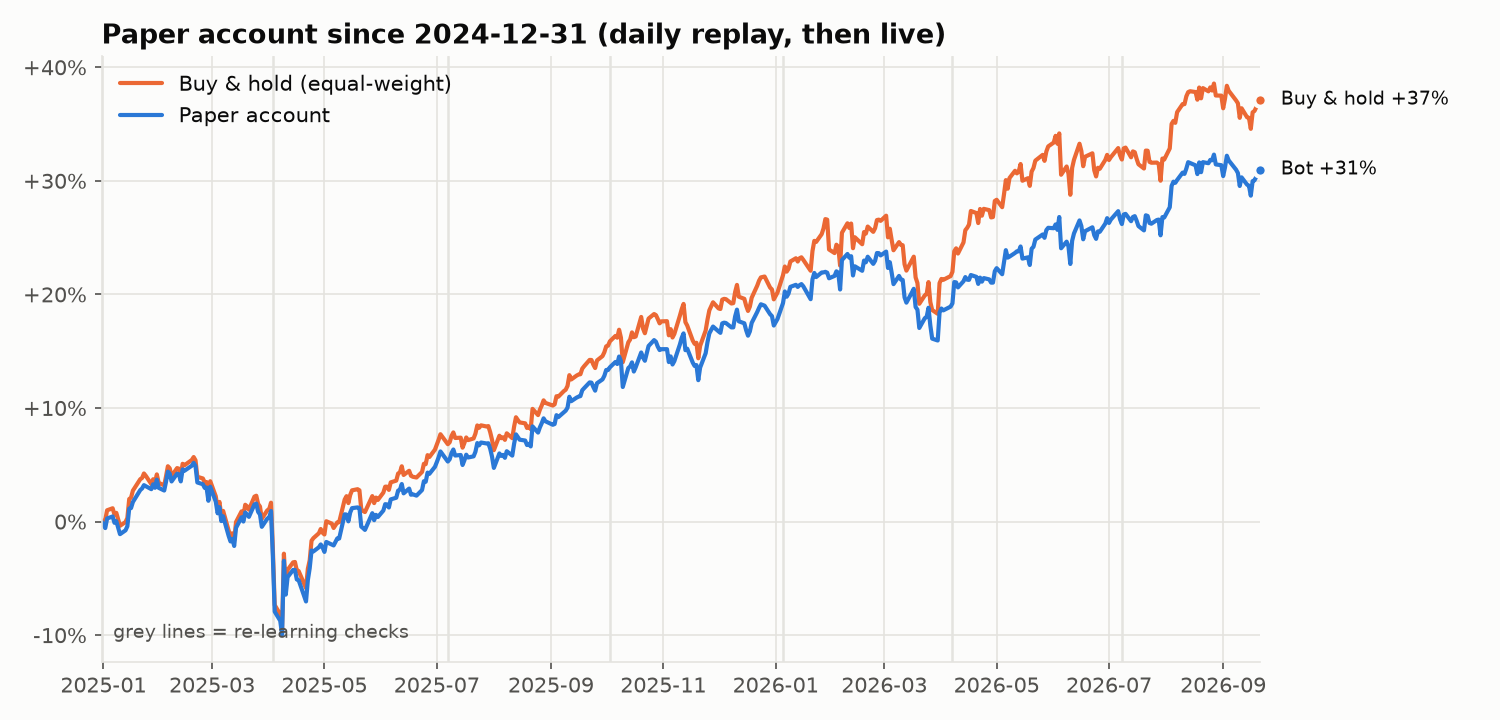
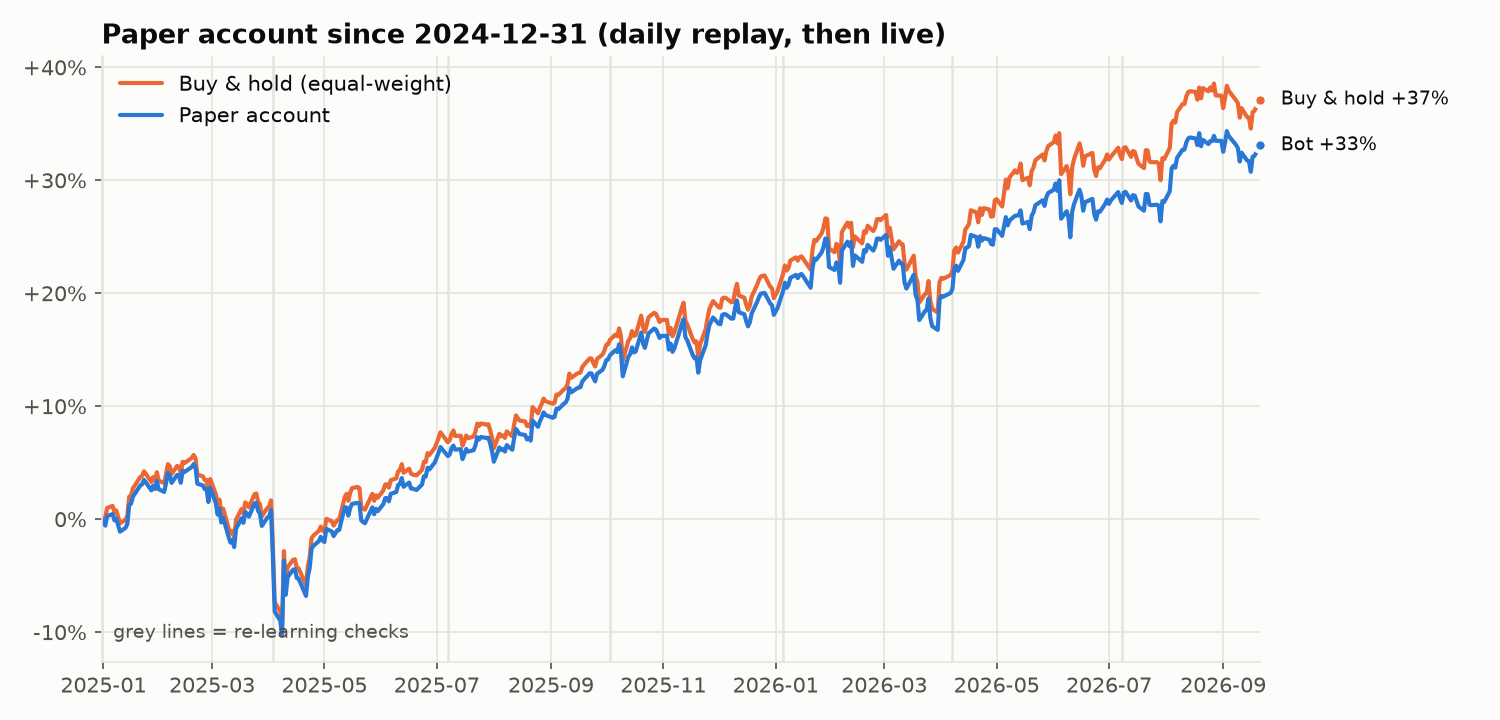
Switch the live paper bot to the beat-buy-&-hold objective
The only change that passed the pre-registered experiment (arm B) now drives
the live account's re-learning.

- Each paper account records its learning objective and always re-learns with
  it; accounts created before this change keep the original Sharpe objective
- `paper init --objective excess|sharpe` (default: excess)
- Status report shows the objective
- New account replayed from 2025-01-02; the original account is kept for
  comparison (data/paper_v1_sharpe.db, not in git)
- README paper results updated, with the gap to buy & hold traced to its
  actual cause

diff --git a/src/evotrader/cli.py b/src/evotrader/cli.py
@@ -192,14 +192,20 @@ def cmd_ml(args: argparse.Namespace) -> None:
 
 def _paper(args: argparse.Namespace, refresh: bool):
     """Open the account database and load the universe it trades."""
-    from evotrader.paper import PaperStore, PaperTrader
+    from evotrader.evolution.fitness import FitnessConfig
+    from evotrader.paper import LearnerConfig, PaperStore, PaperTrader
     from evotrader.walkforward import load_datasets
 
     store = PaperStore(args.db)
     tickers = store.get("tickers") or getattr(args, "tickers", data.DEFAULT_UNIVERSE)
     use_ml = store.get("use_ml", getattr(args, "ml", False))
+    # An account always re-learns with the objective it was created with. Accounts
+    # created before objectives existed used "sharpe".
+    default = getattr(args, "objective", "sharpe") if not store.initialised else "sharpe"
+    objective = store.get("objective", default)
+    learner = LearnerConfig(fitness=FitnessConfig(objective=objective))
     datasets = load_datasets(tickers, use_ml=use_ml, refresh=refresh, log=lambda _: None)
-    return store, PaperTrader(store, datasets)
+    return store, PaperTrader(store, datasets, learner)
 
 
 def cmd_paper_init(args: argparse.Namespace) -> None:
@@ -338,6 +344,9 @@ def main(argv: list[str] | None = None) -> None:
                         help="first trading day; a past date replays history honestly")
     p_init.add_argument("--tickers", nargs="+", default=data.DEFAULT_UNIVERSE)
     p_init.add_argument("--ml", action="store_true", help="let rules use the ML signal (slower)")
+    p_init.add_argument("--objective", choices=["excess", "sharpe"], default="excess",
+                        help="what re-learning optimises: excess = beat buy & hold "
+                             "(passed the pre-registered experiment); sharpe = original")
     p_init.set_defaults(func=cmd_paper_init)
 
     p_run = paper_sub.add_parser("run", parents=[db], help="Trade every day since the last run")

diff --git a/tests/test_paper.py b/tests/test_paper.py
@@ -110,6 +110,23 @@ def test_orders_carry_reasons(tmp_path):
     assert reasons.str.contains("entry").all() and reasons.str.contains("strategy #").all()
 
 
+def test_account_records_and_uses_its_objective(tmp_path):
+    from dataclasses import replace
+
+    from evotrader.evolution import FitnessConfig
+
+    learner = replace(LEARNER, fitness=FitnessConfig(objective="excess"))
+    trader = PaperTrader(PaperStore(tmp_path / "x.db"), make_datasets(), learner,
+                         log=lambda _: None)
+    trader.init(100_000, START)
+    trader.run(until=pd.Timestamp("2019-01-15"))
+    assert trader.store.get("objective") == "excess"
+    assert trader.store.get("relearn_count") > 0
+    # Re-learning decisions are judged with the account's own objective.
+    log = trader.store.frame("SELECT incumbent_score FROM learning_log")
+    assert log["incumbent_score"].notna().all()
+
+
 def test_cannot_init_twice(tmp_path):
     trader = make_trader(tmp_path, make_datasets())
     trader.init(100_000, START)

diff --git a/src/evotrader/paper/report.py b/src/evotrader/paper/report.py
@@ -57,8 +57,10 @@ def status_text(store: PaperStore, bars: dict[str, pd.DataFrame]) -> str:
 
     sid, genome = store.active_strategy()
     origin = store.frame("SELECT origin, created FROM strategies WHERE id = ?", (sid,)).iloc[0]
+    objective = {"excess": "beat buy & hold (information ratio)",
+                 "sharpe": "own Sharpe ratio"}[store.get("objective", "sharpe")]
     lines += [f"Active strategy #{sid} ({origin['origin']}, since {origin['created']}):",
-              f"  {genome}", ""]
+              f"  {genome}", f"  learning objective: {objective}", ""]
 
     positions = store.positions()
     if positions:

diff --git a/src/evotrader/paper/trader.py b/src/evotrader/paper/trader.py
@@ -70,6 +70,7 @@ class PaperTrader:
         s.set("last_processed", _day(anchor))
         s.set("last_relearn", _day(anchor))
         s.set("relearn_count", 0)
+        s.set("objective", self.learner.fitness.objective)
         s.set_hall_of_fame(hall)
         s.activate_strategy(champion, _day(anchor), "initial")
         s.record_equity(_day(anchor), capital, 0.0)

diff --git a/README.md b/README.md
@@ -112,16 +112,23 @@ Live runs also discard today's partial bar while the market is open.
 
 ### Replay results: Jan 2025 to Sep 2026
 
+The live account re-learns with **idea 1's objective** (beat buy & hold), the only change that survived the [pre-registered experiment](docs/EXPERIMENTS.md). The original account is kept for comparison in `data/paper_v1_sharpe.db`. Both were replayed over the same days, and each first champion was trained only on data before 2025.
+
 ![Paper account](docs/img/paper_equity.png)
 
-| | paper account | equal-weight buy & hold |
-|---|---|---|
-| return | +31.0% | +37.1% |
-| Sharpe | 1.28 | |
-| max drawdown | -14.4% | |
-| closed trades | 64 (80% winners, avg +3.6%) | |
+| | live account (beat-B&H objective) | original account (Sharpe objective) | equal-weight buy & hold |
+|---|---|---|---|
+| return | +33.1% | +31.0% | +37.1% |
+| Sharpe | 1.31 | 1.28 | |
+| max drawdown | -14.4% | -14.4% | |
+| closed trades | 8 | 64 | |
+| strategy changes | 1 (July 2025) | 0 | |
 
-In all six re-learning rounds the champion was **kept**: no challenger beat it on unseen data by the required margin. Mistake analysis found no entry filter that would have removed more losing than winning return. The losers of this "stay invested, take profit on sharp spikes" rule look just like the winners at entry, which is itself a useful, honest result.
+**What happened:**
+- **It trades far less.** As in the experiment, the new objective makes the bot behave like buy & hold with a few exits: 8 trades instead of 64.
+- **It changed strategy once.** At the July 2025 re-learning, a challenger beat the champion on the held-out year by a wide margin (+0.05 vs -0.42) and was promoted.
+- **Most of the gap is one exit.** It stayed within about 1.5 points of buy & hold until spring 2026. Most of today's 4-point gap opened when it sold XLK (tech) in mid-April 2026 and missed a 16% rise before buying back in mid-May.
+- **Mistake analysis found no lessons.** No entry filter would have removed more losing than winning return.
 
 ### Running it daily
 
